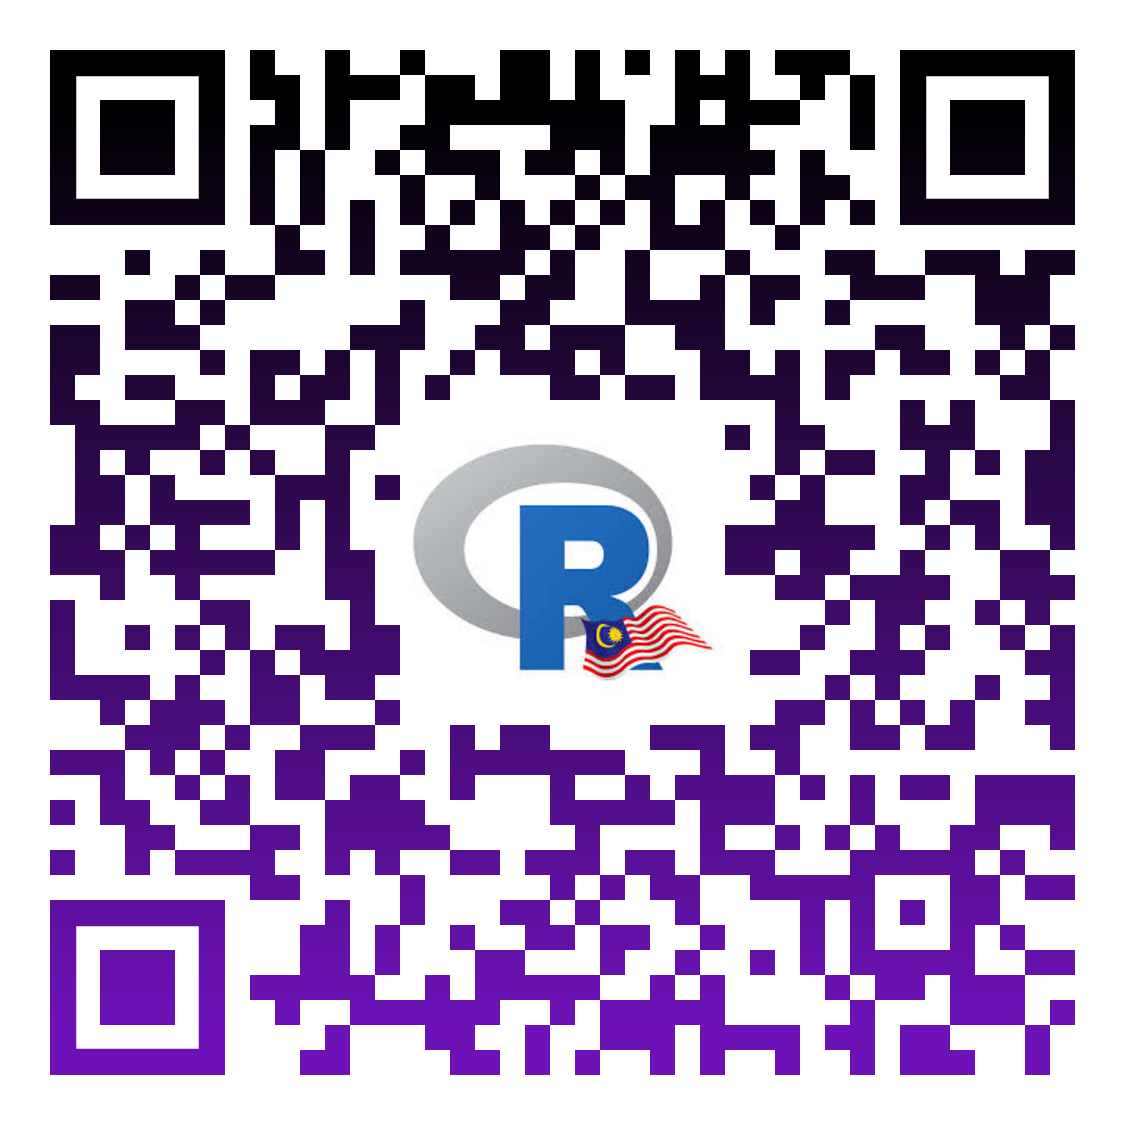
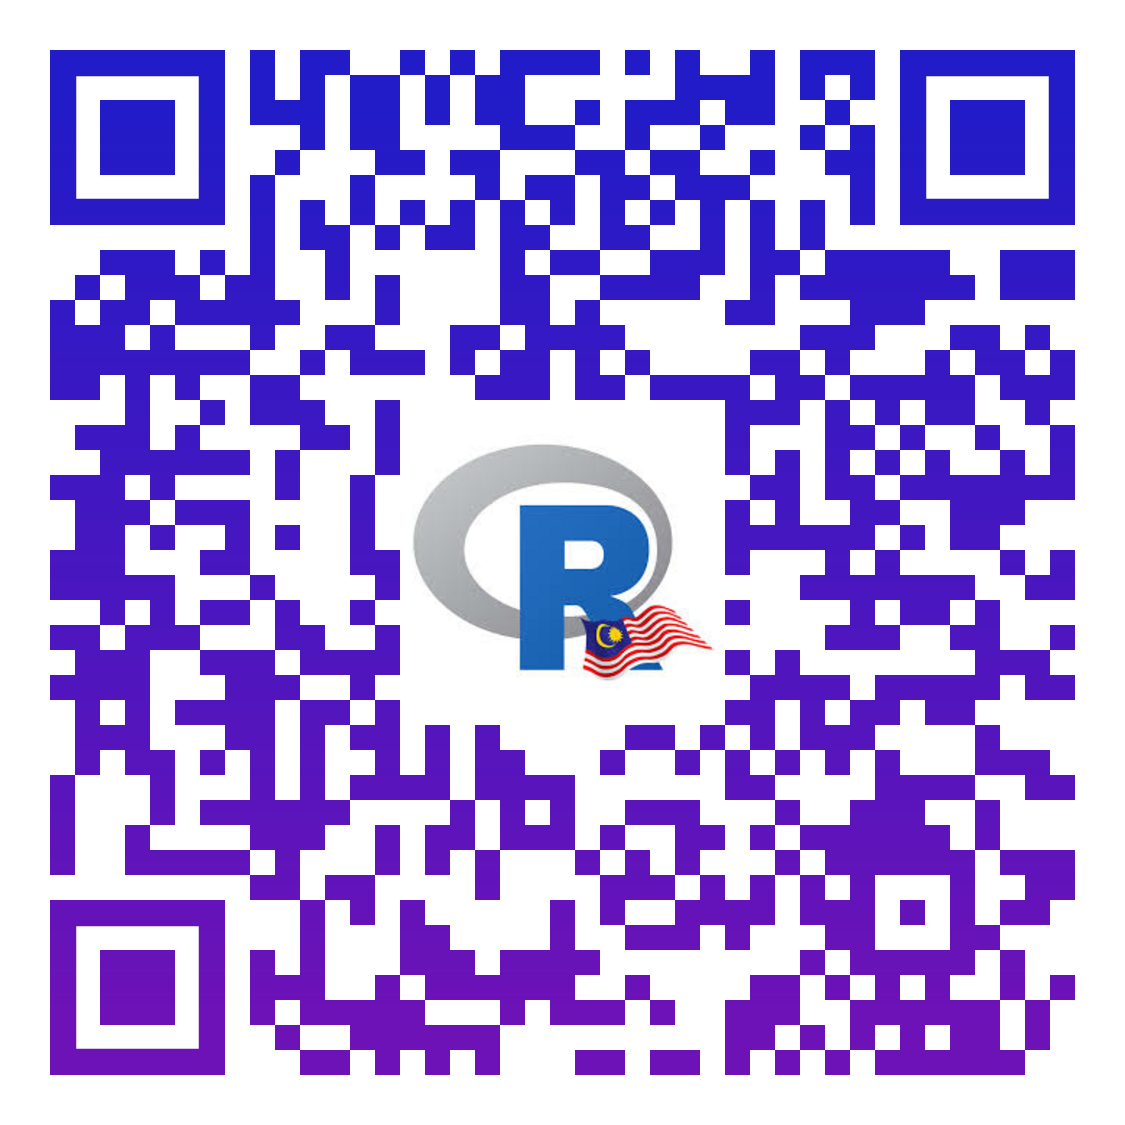
Update slides

diff --git a/docs/index.html b/docs/index.html
@@ -382,7 +382,7 @@ class: center, middle
 
 # Thank you!
 
-.center[<svg aria-hidden="true" role="img" viewBox="0 0 640 512" style="height:1em;width:1.25em;vertical-align:-0.125em;margin-left:auto;margin-right:auto;font-size:inherit;fill:currentColor;overflow:visible;position:relative;"><path d="M579.8 267.7c56.5-56.5 56.5-148 0-204.5c-50-50-128.8-56.5-186.3-15.4l-1.6 1.1c-14.4 10.3-17.7 30.3-7.4 44.6s30.3 17.7 44.6 7.4l1.6-1.1c32.1-22.9 76-19.3 103.8 8.6c31.5 31.5 31.5 82.5 0 114L422.3 334.8c-31.5 31.5-82.5 31.5-114 0c-27.9-27.9-31.5-71.8-8.6-103.8l1.1-1.6c10.3-14.4 6.9-34.4-7.4-44.6s-34.4-6.9-44.6 7.4l-1.1 1.6C206.5 251.2 213 330 263 380c56.5 56.5 148 56.5 204.5 0L579.8 267.7zM60.2 244.3c-56.5 56.5-56.5 148 0 204.5c50 50 128.8 56.5 186.3 15.4l1.6-1.1c14.4-10.3 17.7-30.3 7.4-44.6s-30.3-17.7-44.6-7.4l-1.6 1.1c-32.1 22.9-76 19.3-103.8-8.6C74 372 74 321 105.5 289.5L217.7 177.2c31.5-31.5 82.5-31.5 114 0c27.9 27.9 31.5 71.8 8.6 103.9l-1.1 1.6c-10.3 14.4-6.9 34.4 7.4 44.6s34.4 6.9 44.6-7.4l1.1-1.6C433.5 260.8 427 182 377 132c-56.5-56.5-148-56.5-204.5 0L60.2 244.3z"/></svg> Slides: https://tinyurl.com/biblio-rconference2022]
+.center[<svg aria-hidden="true" role="img" viewBox="0 0 640 512" style="height:1em;width:1.25em;vertical-align:-0.125em;margin-left:auto;margin-right:auto;font-size:inherit;fill:currentColor;overflow:visible;position:relative;"><path d="M579.8 267.7c56.5-56.5 56.5-148 0-204.5c-50-50-128.8-56.5-186.3-15.4l-1.6 1.1c-14.4 10.3-17.7 30.3-7.4 44.6s30.3 17.7 44.6 7.4l1.6-1.1c32.1-22.9 76-19.3 103.8 8.6c31.5 31.5 31.5 82.5 0 114L422.3 334.8c-31.5 31.5-82.5 31.5-114 0c-27.9-27.9-31.5-71.8-8.6-103.8l1.1-1.6c10.3-14.4 6.9-34.4-7.4-44.6s-34.4-6.9-44.6 7.4l-1.1 1.6C206.5 251.2 213 330 263 380c56.5 56.5 148 56.5 204.5 0L579.8 267.7zM60.2 244.3c-56.5 56.5-56.5 148 0 204.5c50 50 128.8 56.5 186.3 15.4l1.6-1.1c14.4-10.3 17.7-30.3 7.4-44.6s-30.3-17.7-44.6-7.4l-1.6 1.1c-32.1 22.9-76 19.3-103.8-8.6C74 372 74 321 105.5 289.5L217.7 177.2c31.5-31.5 82.5-31.5 114 0c27.9 27.9 31.5 71.8 8.6 103.9l-1.1 1.6c-10.3 14.4-6.9 34.4 7.4 44.6s34.4 6.9 44.6-7.4l1.1-1.6C433.5 260.8 427 182 377 132c-56.5-56.5-148-56.5-204.5 0L60.2 244.3z"/></svg> Slides: https://tengku-hanis.github.io/bibliocovidmalaysia/]
 
 &lt;img src="qrcode.png" width="25%" /&gt;
 
